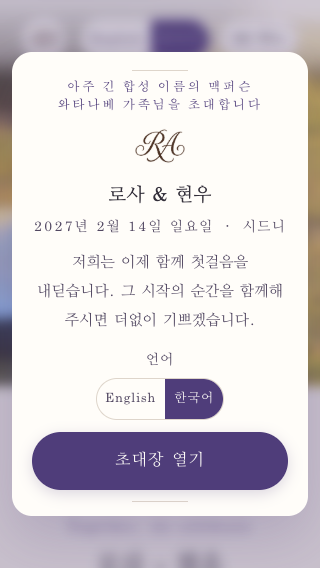
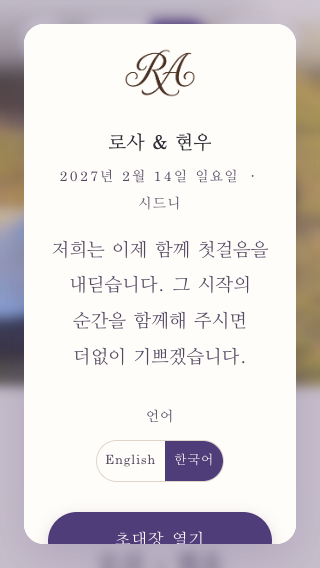
docs: revise synthetic full-name review

diff --git a/index.html b/index.html
@@ -13,7 +13,7 @@
 <body><main>
 <span class="badge">PUBLIC REVIEW · SYNTHETIC ONLY</span>
 <h1>Opening-card personalization</h1>
-<p class="lede">Use the controls to compare generic and personalized English/Korean cards. “Alpha Household / 알파 가족” is synthetic.</p>
+<p class="lede">Use the controls to compare generic and personalized English/Korean cards. “Alex & Jamie / 가나다 & 마바사” are synthetic full-name examples.</p>
 <div class="controls" aria-label="Review controls">
   <div class="row" role="group" aria-label="Personalization">
     <button id="generic" type="button" aria-pressed="false">Generic</button>
@@ -32,6 +32,6 @@
 </figure>
 <div class="privacy"><strong>Privacy:</strong> static screenshots only. No API, database, invitation codes, cookies, sessions, analytics, external requests, source maps, or Production configuration. Production is unchanged.</div>
 <script>
-(()=>{'use strict';const S={mode:'personalized',lang:'en',long:false};const $=id=>document.getElementById(id);function draw(){if(S.long){$('card').src='assets/long-name-ko-320.png';$('card').width=320;$('card').height=568;$('card').alt='Long synthetic Korean household name at 320 by 568 pixels';$('caption').textContent='Long synthetic Korean name · 320×568';}else{const file=S.mode+'-'+S.lang+'-mobile.png';$('card').src='assets/'+file;$('card').width=390;$('card').height=844;$('card').alt=(S.mode==='generic'?'Generic ':'Personalized synthetic ')+(S.lang==='ko'?'Korean':'English')+' opening card';$('caption').textContent=(S.mode==='generic'?'Generic':'Personalized')+' · '+(S.lang==='ko'?'한국어':'English')+' · 390×844';}['generic','personalized'].forEach(x=>$(x).setAttribute('aria-pressed',String(!S.long&&S.mode===x)));['en','ko'].forEach(x=>$(x).setAttribute('aria-pressed',String(!S.long&&S.lang===x)));$('long').setAttribute('aria-pressed',String(S.long));document.documentElement.lang=S.long||S.lang==='ko'?'ko':'en';}$('generic').onclick=()=>{S.long=false;S.mode='generic';draw()};$('personalized').onclick=()=>{S.long=false;S.mode='personalized';draw()};$('en').onclick=()=>{S.long=false;S.lang='en';draw()};$('ko').onclick=()=>{S.long=false;S.lang='ko';draw()};$('long').onclick=()=>{S.long=!S.long;draw()};draw()})();
+(()=>{'use strict';const S={mode:'personalized',lang:'en',long:false};const $=id=>document.getElementById(id);function draw(){if(S.long){$('card').src='assets/long-name-ko-320.png';$('card').width=320;$('card').height=568;$('card').alt='Long synthetic Korean full names at 320 by 568 pixels';$('caption').textContent='Long synthetic Korean name · 320×568';}else{const file=S.mode+'-'+S.lang+'-mobile.png';$('card').src='assets/'+file;$('card').width=390;$('card').height=844;$('card').alt=(S.mode==='generic'?'Generic ':'Personalized synthetic ')+(S.lang==='ko'?'Korean':'English')+' opening card';$('caption').textContent=(S.mode==='generic'?'Generic':'Personalized')+' · '+(S.lang==='ko'?'한국어':'English')+' · 390×844';}['generic','personalized'].forEach(x=>$(x).setAttribute('aria-pressed',String(!S.long&&S.mode===x)));['en','ko'].forEach(x=>$(x).setAttribute('aria-pressed',String(!S.long&&S.lang===x)));$('long').setAttribute('aria-pressed',String(S.long));document.documentElement.lang=S.long||S.lang==='ko'?'ko':'en';}$('generic').onclick=()=>{S.long=false;S.mode='generic';draw()};$('personalized').onclick=()=>{S.long=false;S.mode='personalized';draw()};$('en').onclick=()=>{S.long=false;S.lang='en';draw()};$('ko').onclick=()=>{S.long=false;S.lang='ko';draw()};$('long').onclick=()=>{S.long=!S.long;draw()};draw()})();
 </script>
 </main></body></html>
